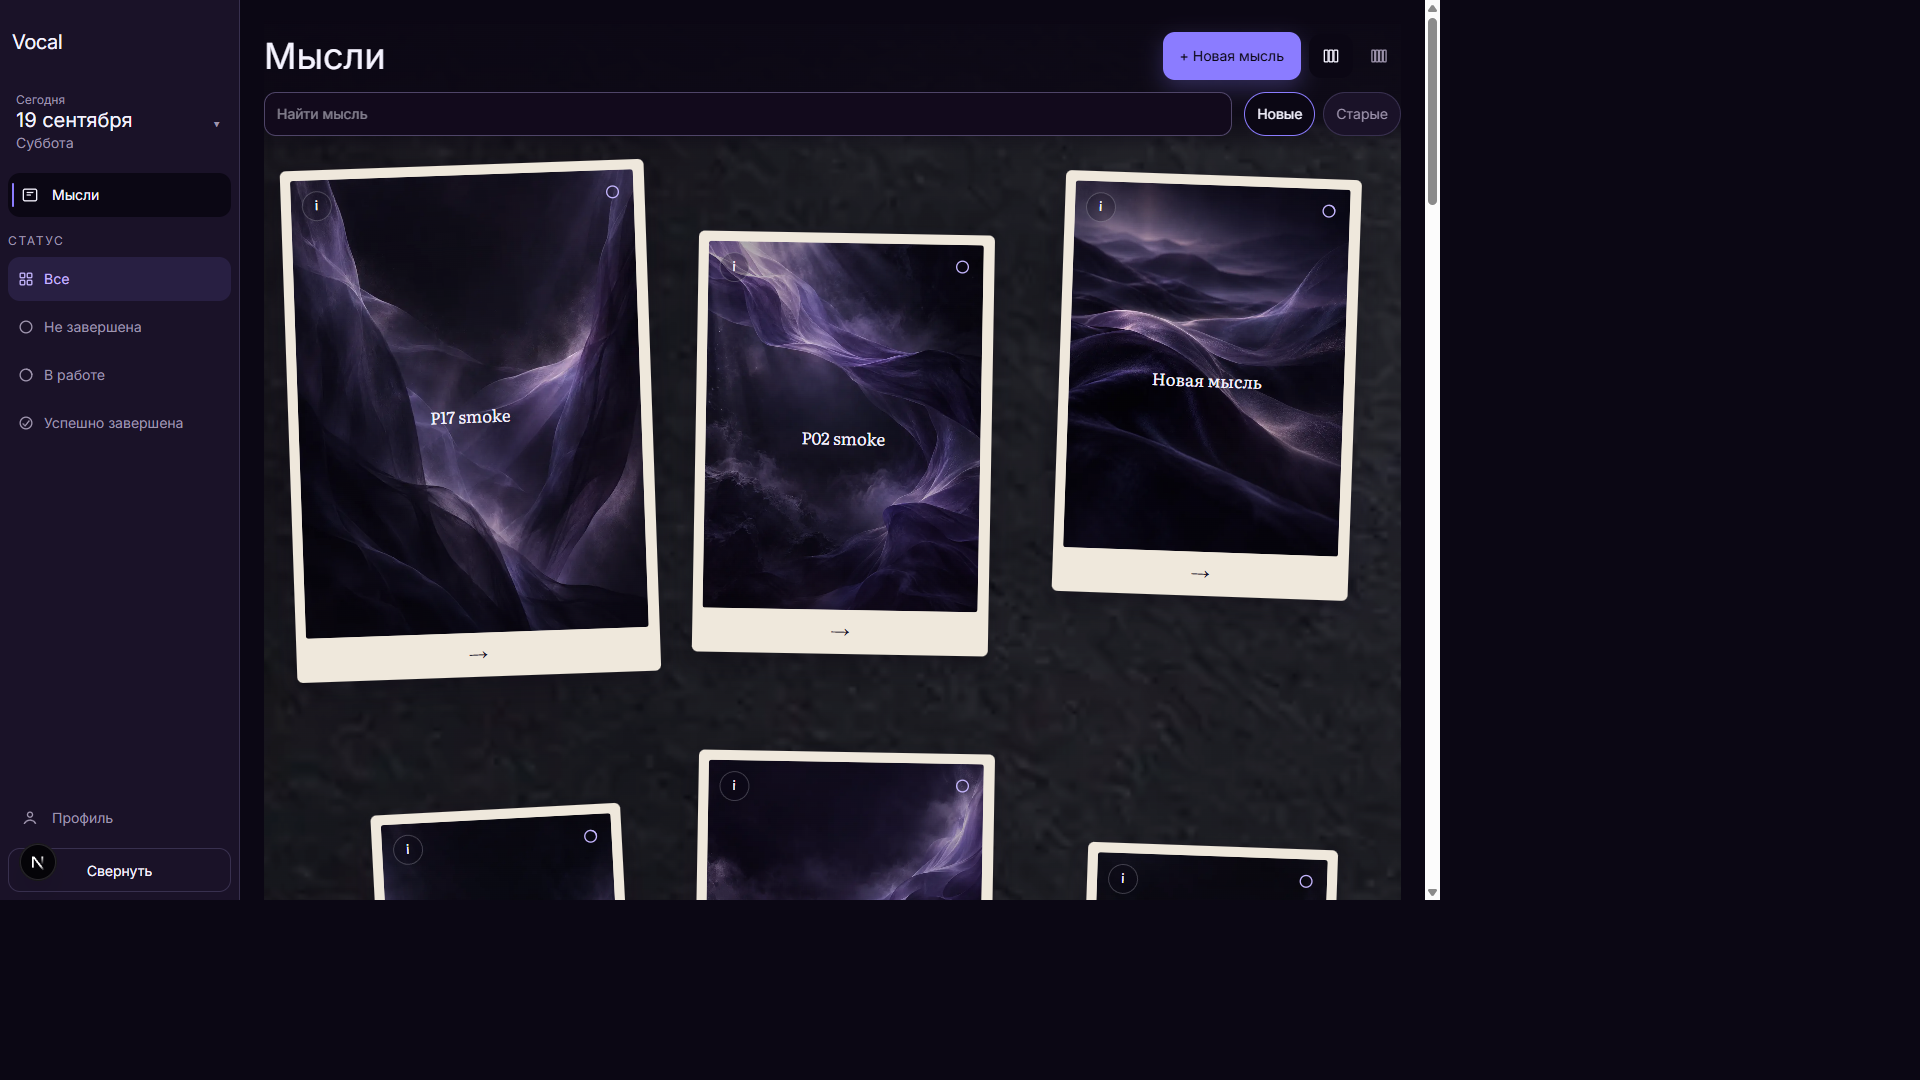
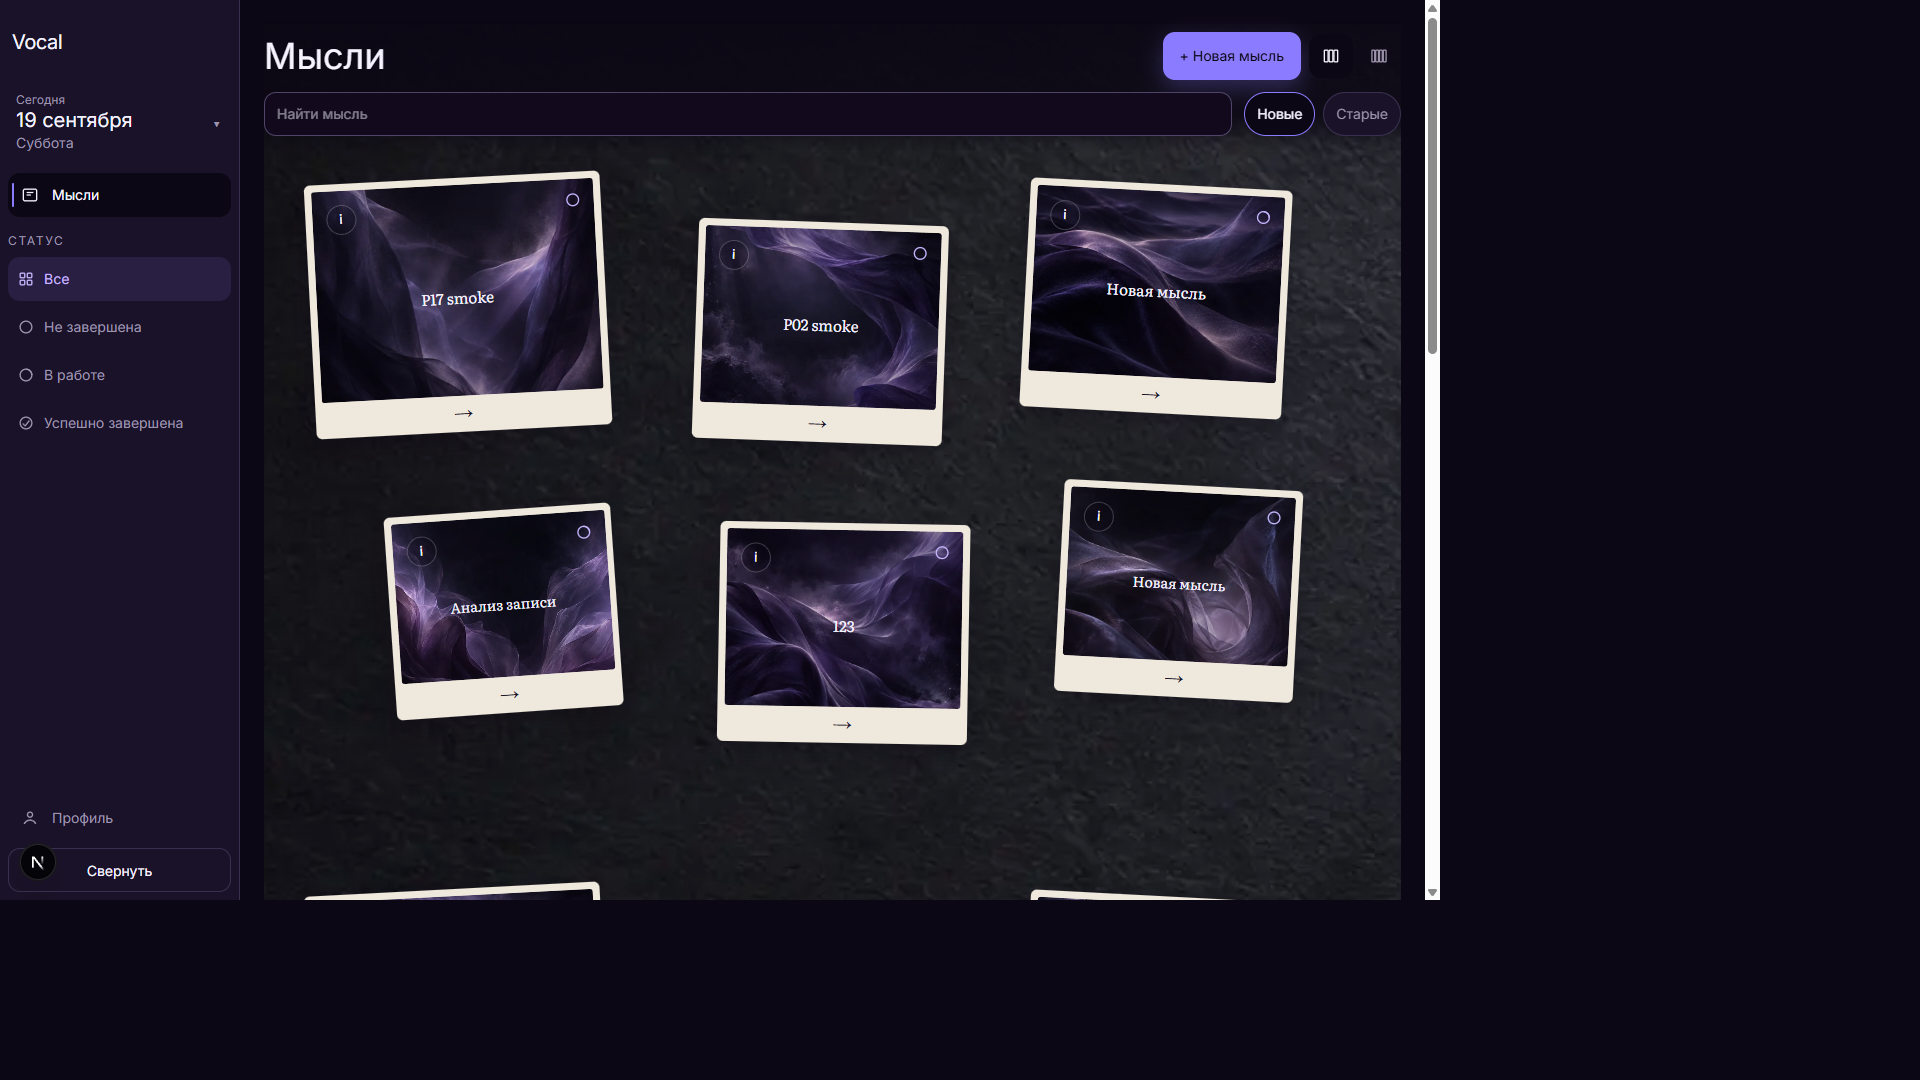
P01.6-2: make large desktop spreads landscape and keep all six cards on one screen.

Changed region(s): [[0.125, 0.1222, 0.75, 0.8556], [0.5312, 0.7639, 0.7188, 0.8556]]

diff --git a/tests/p01-6-2-desktop-static.test.ts b/tests/p01-6-2-desktop-static.test.ts
@@ -12,6 +12,7 @@ import {
 import {
   ARCHIVE_DESK_SPREAD_SIZE,
   archiveDeskSlot,
+  archiveDeskSpreadKind,
   chunkArchiveDeskSpreads,
 } from "../src/lib/archive-desk-layout";
 
@@ -56,19 +57,27 @@ test("P01.6-2 large desktop splits thoughts into deterministic six-card desk spr
   ]);
   assert.equal(archiveDeskSlot(0), 1);
   assert.equal(archiveDeskSlot(5), 6);
+  assert.equal(archiveDeskSpreadKind(1), "single");
+  assert.equal(archiveDeskSpreadKind(3), "single");
+  assert.equal(archiveDeskSpreadKind(4), "full");
   const list = readFileSync(join(root, "src/components/ReelList.tsx"), "utf8");
   const css = readFileSync(join(root, "src/app/globals.css"), "utf8");
   assert.match(list, /chunkArchiveDeskSpreads/);
   assert.match(list, /data-slot=\{slot\}/);
   assert.match(list, /archive-desk-spread/);
+  assert.match(list, /archive-desk-spread-\$\{archiveDeskSpreadKind/);
   assert.equal(list.includes("Math.random"), false);
   assert.equal(css.includes("Math.random"), false);
-  assert.match(css, /\.archive-desk-slot-1[\s\S]*--archive-slot-tilt:\s*-2deg/);
-  assert.match(css, /\.archive-desk-slot-2[\s\S]*--archive-slot-tilt:\s*1deg/);
-  assert.match(css, /\.archive-desk-slot-3[\s\S]*--archive-slot-tilt:\s*2deg/);
-  assert.match(css, /\.archive-desk-slot-4[\s\S]*--archive-slot-tilt:\s*-3deg/);
+  assert.match(css, /\.archive-desk-spread \{[\s\S]*aspect-ratio:\s*16 \/ 9/);
+  assert.match(css, /\.archive-desk-spread-single[\s\S]*aspect-ratio:\s*16 \/ 5/);
+  assert.match(css, /\.archive-desk-spread \.archive-polaroid-frame[\s\S]*aspect-ratio:\s*4 \/ 3/);
+  assert.match(css, /\.archive-polaroid-frame \{[\s\S]*aspect-ratio:\s*3 \/ 4/);
+  assert.match(css, /\.archive-desk-slot-1[\s\S]*--archive-slot-tilt:\s*-3deg/);
+  assert.match(css, /\.archive-desk-slot-2[\s\S]*--archive-slot-tilt:\s*2deg/);
+  assert.match(css, /\.archive-desk-slot-3[\s\S]*--archive-slot-tilt:\s*3deg/);
+  assert.match(css, /\.archive-desk-slot-4[\s\S]*--archive-slot-tilt:\s*-4deg/);
   assert.match(css, /\.archive-desk-slot-5[\s\S]*--archive-slot-tilt:\s*1deg/);
-  assert.match(css, /\.archive-desk-slot-6[\s\S]*--archive-slot-tilt:\s*2deg/);
+  assert.match(css, /\.archive-desk-slot-6[\s\S]*--archive-slot-tilt:\s*3deg/);
   assert.match(css, /\.archive-polaroid-grid-compact[\s\S]*repeat\(4/);
 });
 

diff --git a/src/app/globals.css b/src/app/globals.css
@@ -219,8 +219,12 @@ a[aria-disabled="true"] {
 .archive-desk-spread {
   position: relative;
   width: 100%;
-  aspect-ratio: 10 / 11;
+  aspect-ratio: 16 / 9;
   overflow: visible;
+}
+
+.archive-desk-spread-single {
+  aspect-ratio: 16 / 5;
 }
 
 .archive-desk-slot {
@@ -236,50 +240,68 @@ a[aria-disabled="true"] {
 }
 
 .archive-desk-slot-1 {
-  left: 2%;
-  top: 1%;
-  width: 32%;
-  --archive-slot-tilt: -2deg;
+  left: 4%;
+  top: 4%;
+  width: 26%;
+  --archive-slot-tilt: -3deg;
 }
 
 .archive-desk-slot-2 {
   left: 38%;
-  top: 6.5%;
-  width: 26%;
-  --archive-slot-tilt: 1deg;
-}
-
-.archive-desk-slot-3 {
-  left: 70%;
-  top: 1.8%;
-  width: 26%;
+  top: 11%;
+  width: 22%;
   --archive-slot-tilt: 2deg;
 }
 
+.archive-desk-slot-3 {
+  left: 67%;
+  top: 5%;
+  width: 23%;
+  --archive-slot-tilt: 3deg;
+}
+
 .archive-desk-slot-4 {
-  left: 10%;
-  top: 52.5%;
-  width: 22%;
-  --archive-slot-tilt: -3deg;
+  left: 11%;
+  top: 56%;
+  width: 20%;
+  --archive-slot-tilt: -4deg;
 }
 
 .archive-desk-slot-5 {
-  left: 38%;
-  top: 48%;
-  width: 26%;
+  left: 40%;
+  top: 58%;
+  width: 22%;
   --archive-slot-tilt: 1deg;
 }
 
 .archive-desk-slot-6 {
-  left: 72%;
-  top: 55.5%;
-  width: 22%;
-  --archive-slot-tilt: 2deg;
+  left: 70%;
+  top: 52%;
+  width: 21%;
+  --archive-slot-tilt: 3deg;
+}
+
+.archive-desk-spread .archive-polaroid {
+  padding: 0.42rem 0.42rem 0;
+}
+
+.archive-desk-spread .archive-polaroid-frame {
+  aspect-ratio: 4 / 3;
+  padding: 1.55rem 0.85rem 0.7rem;
+}
+
+.archive-desk-spread .archive-polaroid-footer {
+  min-height: 2.25rem;
+  padding: 0.28rem 0.2rem 0.4rem;
+}
+
+.archive-desk-spread .archive-polaroid-title {
+  font-size: 0.95rem;
 }
 
 .archive-desk-slot-4 .archive-polaroid-title,
 .archive-desk-slot-6 .archive-polaroid-title {
-  font-size: 0.92rem;
+  font-size: 0.88rem;
 }
 
 .archive-polaroid {
@@ -345,7 +367,7 @@ a[aria-disabled="true"] {
 @media (min-width: 1200px) {
   .archive-desk-surface {
     background-image:
-      linear-gradient(180deg, rgba(11, 7, 20, 0.2), rgba(11, 7, 20, 0.06)),
+      linear-gradient(180deg, rgba(11, 7, 20, 0.08), rgba(11, 7, 20, 0.02)),
       var(--archive-desk-image);
     background-size: cover;
     background-position: center top;

diff --git a/src/components/ReelList.tsx b/src/components/ReelList.tsx
@@ -44,6 +44,7 @@ import {
 } from "@/lib/thought-archive-state";
 import {
   archiveDeskSlot,
+  archiveDeskSpreadKind,
   chunkArchiveDeskSpreads,
 } from "@/lib/archive-desk-layout";
 import {
@@ -537,8 +538,9 @@ export function ReelList() {
                   {chunkArchiveDeskSpreads(reels).map((spread, spreadIndex) => (
                     <ul
                       key={spread.map((reel) => reel.id).join("-")}
-                      className="archive-desk-spread list-none p-0"
+                      className={`archive-desk-spread archive-desk-spread-${archiveDeskSpreadKind(spread.length)} list-none p-0`}
                       data-archive-spread={spreadIndex + 1}
+                      data-archive-spread-kind={archiveDeskSpreadKind(spread.length)}
                     >
                       {spread.map((reel, indexInSpread) => {
                         const slot = archiveDeskSlot(indexInSpread);

diff --git a/src/lib/archive-desk-layout.ts b/src/lib/archive-desk-layout.ts
@@ -12,3 +12,7 @@ export function chunkArchiveDeskSpreads<T>(items: readonly T[]): T[][] {
 export function archiveDeskSlot(indexInSpread: number): ArchiveDeskSlot {
   return ((indexInSpread % ARCHIVE_DESK_SPREAD_SIZE) + 1) as ArchiveDeskSlot;
 }
+
+export function archiveDeskSpreadKind(count: number): "single" | "full" {
+  return count > 0 && count <= 3 ? "single" : "full";
+}
